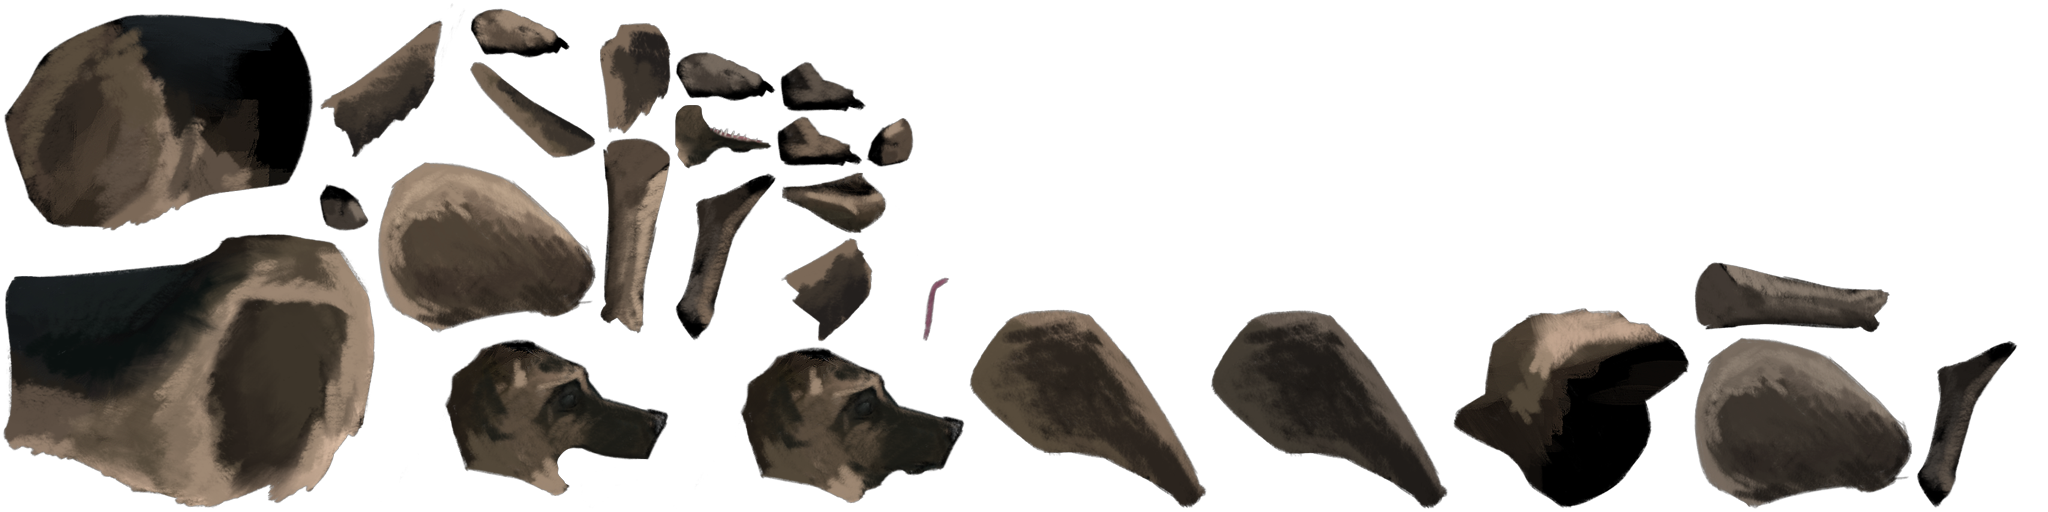
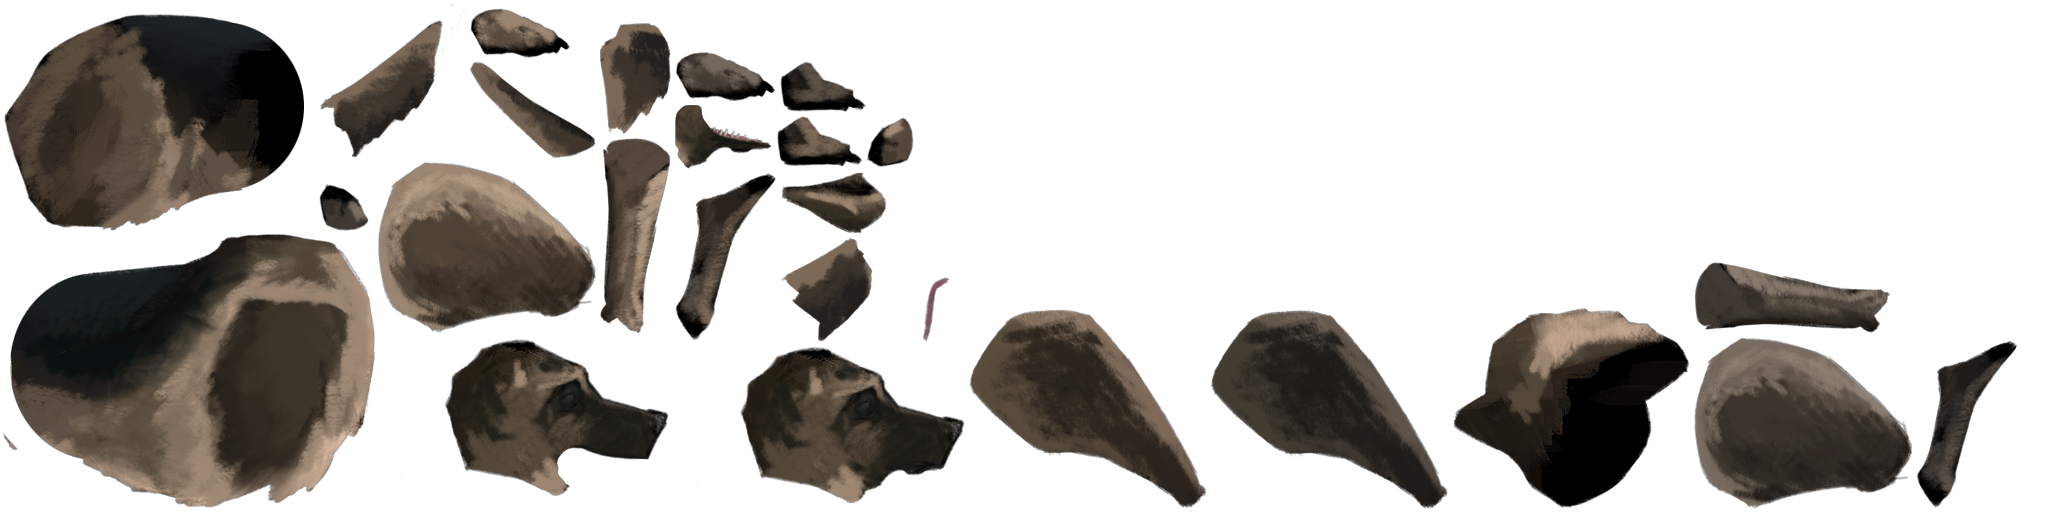
changing dog animation and some logic for animation

Changed region(s): [[0.0938, 0.0312, 0.1562, 0.375], [0.0, 0.7812, 0.0312, 0.9062], [0.0, 0.5312, 0.0312, 0.6562]]

diff --git a/core/src/com/me/component/PlayerAnimationComponent.java b/core/src/com/me/component/PlayerAnimationComponent.java
@@ -1,12 +1,13 @@
 package com.me.component;
 
 import com.artemis.Entity;
+import com.badlogic.gdx.Gdx;
 import com.badlogic.gdx.graphics.g2d.SpriteBatch;
+import com.badlogic.gdx.math.MathUtils;
+import com.badlogic.gdx.math.Vector;
 import com.badlogic.gdx.math.Vector2;
 import com.badlogic.gdx.math.Vector3;
-import com.esotericsoftware.spine.Bone;
-import com.esotericsoftware.spine.IkConstraint;
-import com.esotericsoftware.spine.Slot;
+import com.esotericsoftware.spine.*;
 import com.me.component.interfaces.TelegramEventObserverComponent;
 import com.me.events.AnimationEvent;
 import com.me.events.TelegramEvent;
@@ -22,6 +23,8 @@ public class PlayerAnimationComponent extends AnimationComponent implements Tele
 
     private PlayerState finishAnimation;
     private PlayerComponent.PlayerNumber playerNumber;
+    private ConstraintInfo rightArmConstraint;
+    private float time;
 
     public PlayerAnimationComponent(String atlas, String skeleton, float scale, PlayerState finishAnimation, PlayerComponent.PlayerNumber playerNumber) {
         super(atlas, skeleton, scale);
@@ -31,6 +34,12 @@ public class PlayerAnimationComponent extends AnimationComponent implements Tele
 
     public PlayerAnimationComponent(String atlas, String skeleton, float scale) {
         super(atlas, skeleton, scale);
+    }
+
+    @Override
+    public void skeletonReady(Skeleton skeleton) {
+        rightArmConstraint = new ConstraintInfo();
+        rightArmConstraint.constraint = skeleton.findBone("leftUpperArm");
     }
 
     public AnimationEvent getEvent() {
@@ -115,9 +124,11 @@ public class PlayerAnimationComponent extends AnimationComponent implements Tele
                     break;
                 case HoldHandLeading:
 //                    playAnimation("holdingHandsIdleLeading", false);
+//                    setIK(Vector2.Zero);
                     break;
                 case HoldHandFollowing:
 //                    playAnimation("holdingHandsIdleFollowing", false);
+//                    setIK(Vector2.Zero);
                     break;
                 case PullingLedge:
                     playAnimation("pullingLedge", false);
@@ -148,20 +159,22 @@ public class PlayerAnimationComponent extends AnimationComponent implements Tele
         previousState = state;
     }
 
-    public void setIK(Vector2 position) {
+    public void calculateIK(float dt) {
 
-        for (IkConstraint constraint : skeleton.getIkConstraints()) {
-            constraint.setMix(100);
-            Bone target = constraint.getTarget();
-            target.setX(position.x);
-            target.setY(position.y);
-            target.getData().setX(position.x);
-            target.getData().setY(position.y);
-            target.updateWorldTransform();
-            constraint.apply();
-        }
-        skeleton.updateCache();
-        skeleton.updateWorldTransform();
+//        time += Gdx.graphics.getDeltaTime() / 6;
+//
+//        if(rightArmConstraint != null && rightArmConstraint.constraint != null && rightArmConstraint.target != null) {
+//            if (time > 1) {
+//                float jumpTime = time - 1;
+//                float mixTime = 0.4f;
+//                float mix = MathUtils.clamp(jumpTime / mixTime, 0, 1);
+//                float x = rightArmConstraint.constraint.getWorldX() - rightArmConstraint.target.x;
+//                float y = rightArmConstraint.constraint.getWorldY() - rightArmConstraint.target.y;
+//                float r = ((float)Math.atan2(x, y) * MathUtils.radDeg + 90);
+//                rightArmConstraint.constraint.setRotation(r * 10000);
+//                System.out.println(rightArmConstraint.constraint.getRotation());
+//            }
+//        }
     }
 
     public void rotateBoneTo(String name, Vector2 myPos, Vector2 target, boolean left) {
@@ -201,6 +214,7 @@ public class PlayerAnimationComponent extends AnimationComponent implements Tele
     public void update(SpriteBatch sb, float dt) {
         animationState.update(dt);
         animationState.apply(skeleton);
+        calculateIK(dt);
         skeleton.update(dt);
         skeleton.updateWorldTransform();
         renderer.draw(sb, skeleton);
@@ -222,11 +236,21 @@ public class PlayerAnimationComponent extends AnimationComponent implements Tele
         Entity entity = event.getEntity();
         PlayerComponent playerComponent = entity.getComponent(PlayerComponent.class);
         if (playerNumber != playerComponent.getPlayerNr()) {
+            PhysicsComponent physicsComponent = entity.getComponent(PhysicsComponent.class);
+            rightArmConstraint.target = physicsComponent.getWorldPosition();
             if (event.getEventType() == GameEventType.HoldingHandsFollowing) {
                 setAnimationState(PlayerState.HoldHandLeading);
             } else if (event.getEventType() == GameEventType.HoldingHandsLeading) {
                 setAnimationState(PlayerState.HoldHandFollowing);
             }
+        } else {
+            PhysicsComponent physicsComponent = entity.getComponent(PhysicsComponent.class);
+//            setIK(physicsComponent.getPosition("torso"));
         }
+    }
+
+    private class ConstraintInfo{
+        Bone constraint;
+        Vector2 target;
     }
 }

diff --git a/core/src/com/me/physics/PhysicsListenerSetup.java b/core/src/com/me/physics/PhysicsListenerSetup.java
@@ -238,22 +238,22 @@ public class PhysicsListenerSetup {
                             }
                             if (playerUd.getType() == Type.RightHandHold) {
                                 PlayerAIComponent playerAi = e.getComponent(PlayerAIComponent.class);
-                                if(playerAi.getTarget() == null) {
+                                if(playerAi != null && playerAi.getTarget() == null) {
                                     e.getComponent(PlayerAIComponent.class).setTarget(other.getTarget());
                                 }
-                                PlayerAIComponent otehrAi = e2.getComponent(PlayerAIComponent.class);
-                                if(otehrAi.getTarget() == null) {
+                                PlayerAIComponent otherAi = e2.getComponent(PlayerAIComponent.class);
+                                if(otherAi != null && otherAi.getTarget() == null ) {
                                     e2.getComponent(PlayerAIComponent.class).setTarget(player.getTarget());
                                 }
                             }
 
                             if (playerUd.getType() == Type.LeftHandHold) {
                                 PlayerAIComponent playerAi = e.getComponent(PlayerAIComponent.class);
-                                if(playerAi.getTarget() == null) {
+                                if(playerAi != null && playerAi.getTarget() == null) {
                                     e.getComponent(PlayerAIComponent.class).setTarget(other.getTarget());
                                 }
-                                PlayerAIComponent otehrAi = e2.getComponent(PlayerAIComponent.class);
-                                if(otehrAi.getTarget() == null) {
+                                PlayerAIComponent otherAi = e2.getComponent(PlayerAIComponent.class);
+                                if(otherAi != null && otherAi.getTarget() == null ) {
                                     e2.getComponent(PlayerAIComponent.class).setTarget(player.getTarget());
                                 }
                             }
@@ -366,23 +366,23 @@ public class PhysicsListenerSetup {
                         if (playerUd.getType() == Type.LeftHandHold) {
                             e.getComponent(TouchComponent.class).handHoldArea = false;
                             e.getComponent(TouchComponent.class).leftHoldArea = false;
-                            e.getComponent(HandHoldComponent.class).setHoldingHands(false);
+//                            e.getComponent(HandHoldComponent.class).setHoldingHands(false);
 //                            e.getComponent(PlayerAIComponent.class).setTarget(null);
-                            gameEntityWorld.onNotify(new TaskEvent(GameEventType.HandHoldingEnded));
+//                            gameEntityWorld.onNotify(new TaskEvent(GameEventType.HandHoldingEnded));
                         }
                         if (playerUd.getType() == Type.RightHandHold) {
                             e.getComponent(TouchComponent.class).handHoldArea = false;
                             e.getComponent(TouchComponent.class).rightHoldArea = false;
-                            e.getComponent(HandHoldComponent.class).setHoldingHands(false);
+//                            e.getComponent(HandHoldComponent.class).setHoldingHands(false);
 //                            e.getComponent(PlayerAIComponent.class).setTarget(null);
-                            gameEntityWorld.onNotify(new TaskEvent(GameEventType.HandHoldingEnded));
+//                            gameEntityWorld.onNotify(new TaskEvent(GameEventType.HandHoldingEnded));
                         }
 
                         if (otherUd.getType() == Type.LeftHandHold) {
                             e2.getComponent(TouchComponent.class).handHoldArea = false;
                             e2.getComponent(TouchComponent.class).leftHoldArea = false;
-                            e2.getComponent(HandHoldComponent.class).setHoldingHands(false);
-                            gameEntityWorld.onNotify(new TaskEvent(GameEventType.HandHoldingEnded));
+//                            e2.getComponent(HandHoldComponent.class).setHoldingHands(false);
+//                            gameEntityWorld.onNotify(new TaskEvent(GameEventType.HandHoldingEnded));
                         }
                         if (otherUd.getType() == Type.RightHandHold) {
                             e2.getComponent(TouchComponent.class).handHoldArea = false;

diff --git a/core/src/com/me/loaders/EntityLoader.java b/core/src/com/me/loaders/EntityLoader.java
@@ -387,7 +387,7 @@ public class EntityLoader {
                 entityWorld.addObserver(playerComponent);
                 // entity.addComponent(new LightComponent(light, ((BodyUserData)
                 // body.getUserData()).mName));
-                PlayerAIComponent playerAIComponent = new PlayerAIComponent(new SteeringEntity(pComp.getPosition("torso"), 20), playerComponent.getPlayerNr());
+                PlayerAIComponent playerAIComponent = new PlayerAIComponent(new SteeringEntity(pComp.getPosition("torso"), 20, 10, 10, 10), playerComponent.getPlayerNr());
                 entityWorld.addObserver(playerAIComponent);
                 entity.addComponent(playerComponent)
                         .addComponent(playerAIComponent)
@@ -473,7 +473,7 @@ public class EntityLoader {
                 stateData.setMix("runLanding", "idle1", 0.2f);
                 entity.addComponent(playerComponent);
                 animationComponent.setSkin(playerConfig.getSkinName());
-                PlayerAIComponent playerAIComponent = new PlayerAIComponent(new SteeringEntity(pComp.getPosition("torso"), 20), playerComponent.getPlayerNr());
+                PlayerAIComponent playerAIComponent = new PlayerAIComponent(new SteeringEntity(pComp.getPosition("torso"), 20, 10, 10, 10), playerComponent.getPlayerNr());
                 entityWorld.addObserver(playerAIComponent);
                 entity.addComponent(new KeyInputComponent())
                         .addComponent(playerAIComponent)
@@ -496,10 +496,10 @@ public class EntityLoader {
                 pComp.setStartPosition(playerConfig.getPosition());
                 pComp.setAllBodiesPosition(playerConfig.getPosition());
             } else if (scene.getCustom(body, "characterType", "").equalsIgnoreCase("enemy")) {
-                entity.addComponent(new AIComponent(new SteeringEntity(pComp.getPosition(), 20)));
+                entity.addComponent(new AIComponent(new SteeringEntity(pComp.getPosition(), 20, 10, 10, 10)));
                 entity.addComponent(new PlayerComponent(PlayerComponent.PlayerNumber.AI, false));
                 entity.addComponent(new RestartComponent());
-                entity.addComponent(new EyeRayCastComponent(new EyeRay(pComp.getPosition(), 1), new EyeRayCastListener()));
+                entity.addComponent(new EyeRayCastComponent(new EyeRay(pComp.getPosition(), 10), new EyeRayCastListener()));
                 entity.addComponent(new TouchComponent());
                 stateData = animationComponent.setUp(image);
                 pComp.setAllBodiesPosition(playerConfig.getPosition());

diff --git a/core/src/com/me/systems/ManSystem.java b/core/src/com/me/systems/ManSystem.java
@@ -148,6 +148,7 @@ public class ManSystem extends PlayerSystem {
                 if(physicsComponent.getTarget() != null){
                     PlayerAIComponent aiComponent = aiComponentMapper.get(entity);
                     aiComponent.setActivate(false);
+                    setPlayerState(entity, PlayerState.HoldHandFollowing);
                     TelegramEvent telegramEvent = new TelegramEvent(GameEventType.HoldingHandsLeading);
                     telegramEvent.notify(this, entity);
                 }
@@ -206,7 +207,10 @@ public class ManSystem extends PlayerSystem {
             }
         }
 
-        if (rayCastComponent.hasCollided() && !playerComponent.isHanging() && !playerComponent.isLanding()) {
+        if (rayCastComponent.hasCollided() &&
+                !playerComponent.isHanging() &&
+                !playerComponent.isLanding() &&
+                !playerComponent.isJumping()) {
             if (touchComponent.shouldPush()) {
                 setPlayerState(entity, PlayerState.Pushing);
             } else {
@@ -242,7 +246,7 @@ public class ManSystem extends PlayerSystem {
         RayCastComponent rayCastComponent = rayCastComps.get(entity);
 
         if (rayCastComponent.hasCollided() && !player.isJumping() && !player.isFalling()) {
-            if (keyInputComponent.isMoving()) {
+            if (movementComps.get(entity).isMoving()) {
                 if (velocityLimitForJumpBoost(entity)) {
                     physicsComponent.applyLinearImpulseAtPoint(PhysicsComponent.Center, new Vector2((keyInputComponent.left ? -20 : 20), physicsComponent.getBody(PhysicsComponent.Center).getMass() * 25));
                 } else {

diff --git a/core/src/com/me/component/LevelAnimationComponent.java b/core/src/com/me/component/LevelAnimationComponent.java
@@ -2,6 +2,7 @@ package com.me.component;
 
 import com.badlogic.gdx.graphics.g2d.SpriteBatch;
 import com.badlogic.gdx.graphics.g2d.TextureAtlas;
+import com.esotericsoftware.spine.Skeleton;
 import com.me.component.interfaces.ButtonStateObserverComponent;
 import com.me.events.ButtonEvent;
 import com.me.events.GameEventType;
@@ -23,6 +24,11 @@ public class LevelAnimationComponent extends AnimationComponent implements Butto
 
     public LevelAnimationComponent(String atlas, String skeleton, float scale) {
         super(atlas, skeleton, scale);
+    }
+
+    @Override
+    public void skeletonReady(Skeleton skeleton) {
+
     }
 
     public LevelAnimationComponent(String atlas, String skeleton, float scale, int taskId) {

diff --git a/core/src/com/me/loaders/BackgroundLoader.java b/core/src/com/me/loaders/BackgroundLoader.java
@@ -59,10 +59,10 @@ public class BackgroundLoader {
             InputManager.getInstance().setSelectedPlayer(player.getPlayerNumber(), player.isActive());
         }
 
-//        for (AIConfig aiConfig : currentLevel.getAIConfigs()) {
-//            AI ai = new AI(aiConfig);
-//            loader.loadCharacter(ai, game.gameScreen.getEntityWorld(), game.gameScreen.getPhysicsSystem().getPhysicsWorld());
-//        }
+        for (AIConfig aiConfig : currentLevel.getAIConfigs()) {
+            AI ai = new AI(aiConfig);
+            loader.loadCharacter(ai, game.gameScreen.getEntityWorld(), game.gameScreen.getPhysicsSystem().getPhysicsWorld());
+        }
 
         loader.dispose();
         startProcessingSystems();

diff --git a/core/src/com/me/component/SteeringEntity.java b/core/src/com/me/component/SteeringEntity.java
@@ -31,12 +31,12 @@ public class SteeringEntity implements Steerable<Vector2> {
     private float maxAngularSpeed;
     private float maxAngularAcceleration;
 
-    public SteeringEntity(Vector2 position, float boundRadius){
+    public SteeringEntity(Vector2 position, float boundRadius, float maxLinearAcceleration, float maxSpeed, float maxLinearSpeed){
         this.position = position;
-        this.boundRadius = 100;
-        maxLinearAcceleration = 5;
-        maxSpeed = 10;
-        maxLinearSpeed = 10;
+        this.boundRadius = boundRadius;
+        this.maxLinearAcceleration = 10;
+        this.maxSpeed = 10;
+        this.maxLinearSpeed = 20;
     }
 
     public void update (float deltaTime) {

diff --git a/core/src/com/me/systems/PlayerAISteeringSystem.java b/core/src/com/me/systems/PlayerAISteeringSystem.java
@@ -40,7 +40,6 @@ public class PlayerAISteeringSystem extends GameEntityProcessingSystem {
                 steeringComponent.setSteeringBehavior(BehaviourFactory.createSeek(playerAIComponent.getSteeringEntity(), playerAIComponent.getTarget()));
             }
             CharacterMovementComponent movementComponent = characterMovementMapper.getSafe(entity);
-            System.out.println("Steering Velocity" + steeringComponent.getLinearVelocity());
             float velocity = steeringComponent.getLinearVelocity().x;
             if(Math.abs(velocity) > 1) {
                 movementComponent.setVelocity(velocity);

diff --git a/core/src/com/me/component/AnimationComponent.java b/core/src/com/me/component/AnimationComponent.java
@@ -101,8 +101,11 @@ public abstract class AnimationComponent extends BaseComponent implements TaskEv
 		this.skeleton.setSkin(skin);
 		this.center = Converters.ToBox(center);
 		this.skeleton.updateWorldTransform();
+        skeletonReady(skeleton);
 		return stateData;
 	}
+
+	public abstract void skeletonReady(Skeleton skeleton);
 
 	public void setUp(Vector2 center, String animation){
 		AnimationStateData stateData = new AnimationStateData(skeletonData);
